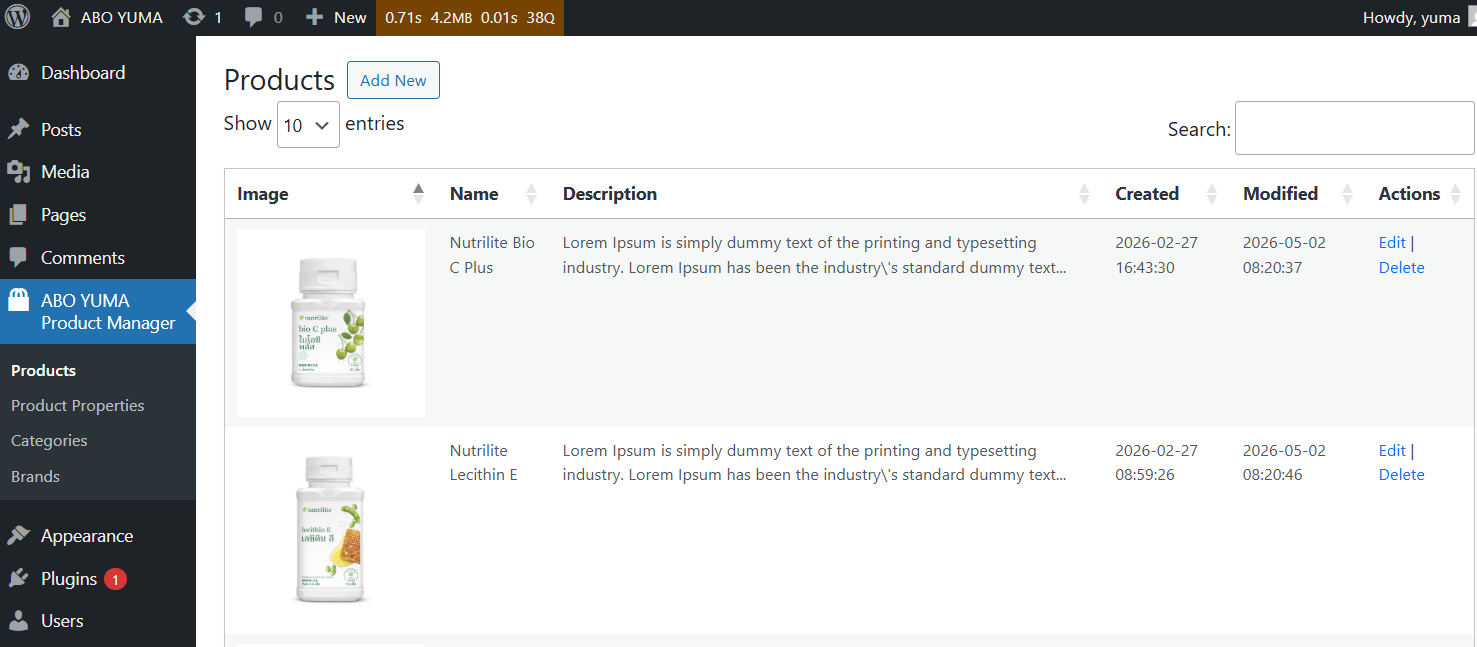
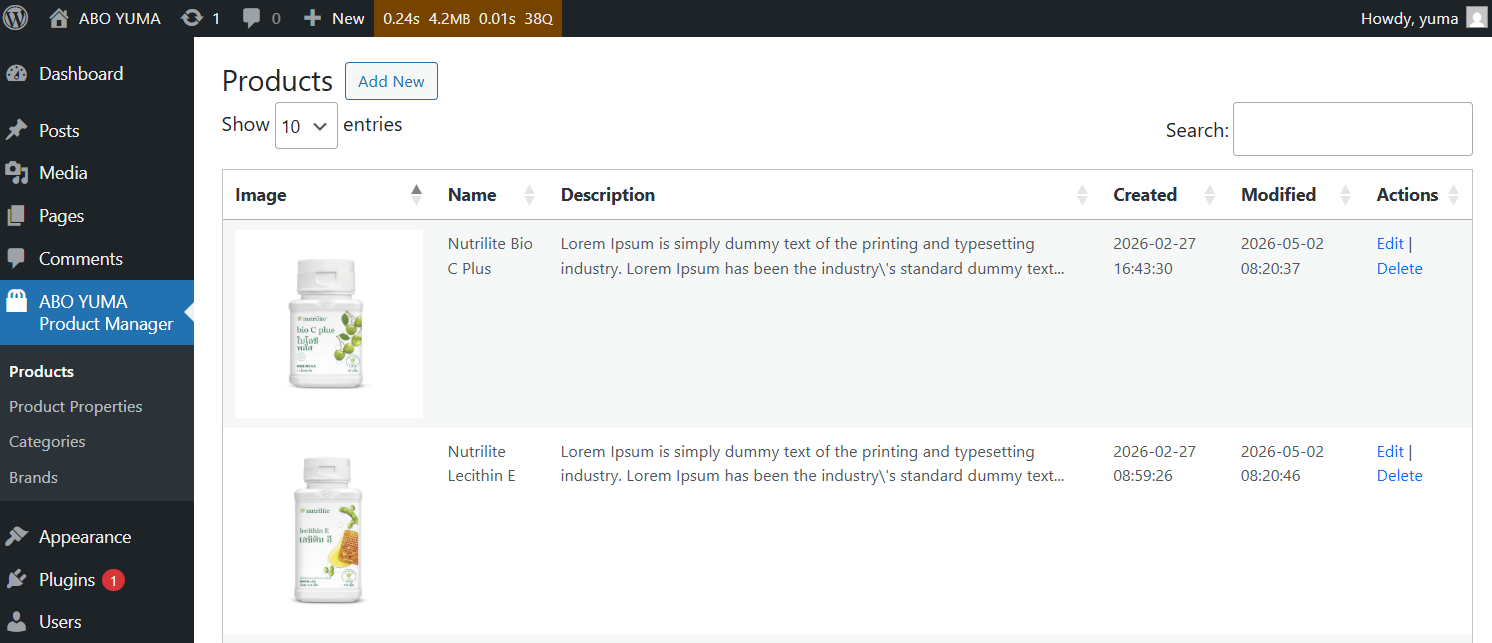
docs: refine README structure and improve clarity

diff --git a/README.md b/README.md
@@ -1,15 +1,15 @@
 # ABO YUMA Product Manager
 
-A custom WordPress product manager plugin built on top of the [WordPress Plugin Boilerplate](https://github.com/DevinVinson/WordPress-Plugin-Boilerplate).
+A custom WordPress product manager plugin built on top of the [WordPress Plugin Boilerplate](https://github.com/DevinVinson/WordPress-Plugin-Boilerplate).  
+This plugin is intended to present product information and reviews in a structured, user-friendly format for customers.
 
 <img src="assets/aboyuma-product-manager-preview.png" width="650"/>  
 
-It is specifically designed for Amway products and built exclusively for use with the ABO YUMA WordPress theme.  
+It is specifically designed for Amway products and built exclusively for use with the **ABO YUMA theme**.  
+
 The plugin automatically registers product page.
 
 <img src="assets/auto-created-page-preview.png" width="500"/>  
-
-⚠ The development process follows a functionality-first mindset, followed by incremental refactoring.
 
 ## 📦 Admin Modules
 
@@ -20,7 +20,14 @@ The plugin automatically registers product page.
 - Categories (CRUD)
 - Brands (CRUD)
 
+### Workflow
+
+1. Create **Categories**, **Brands**, and **Product Properties**
+2. Create **Products** and assign the above data
+
 ## 🌐 Public-Facing Features
+
+<img src="assets/public-facing-ui-preview.png" width="500"/>  
 
 - Product listing with jQuery DataTables
 - Dynamic product detail page
@@ -43,16 +50,14 @@ The plugin implements a virtual page routing mechanism using WordPress query var
 
 ## 🎨 Theme Compatibility
 
-Optimized for the **ABO YUMA WordPress theme** with Bootstrap support.
+Optimized for the ABO YUMA theme with Bootstrap 5 and dark mode support.
 
-<img src="assets/public-facing-ui-preview.png" width="500"/>  
+This plugin requires [Bootstrap 5](https://getbootstrap.com/) and [jQuery DataTables (Bootstrap 5 integration)](https://datatables.net/examples/styling/bootstrap5).  
+It does not bundle these dependencies.
 
-<br>
-
-> This plugin requires [Bootstrap 5](https://getbootstrap.com/) and [jQuery DataTables (Bootstrap integration)](https://datatables.net/examples/styling/bootstrap5).  
-> It does not bundle these dependencies.
-
-⚠ Using it with themes that do not include Bootstrap may result in unstyled or broken layouts.
+> ⚠ Known limitation: This plugin is optimized for the ABO YUMA theme.  
+> When used with other Bootstrap-based themes, layout issues may occur.  
+> Compatibility improvements are planned for future updates.
 
 ## 📌 TODO
 
@@ -60,3 +65,4 @@ Optimized for the **ABO YUMA WordPress theme** with Bootstrap support.
 - Gradually align the codebase with WordPress PHP Coding Standards (WPCS)
 - Refactor and improve Admin modules for better maintainability
 - Improve form validation with client-side JavaScript validation
+- Improve inline code comments and documentation for better maintainability
